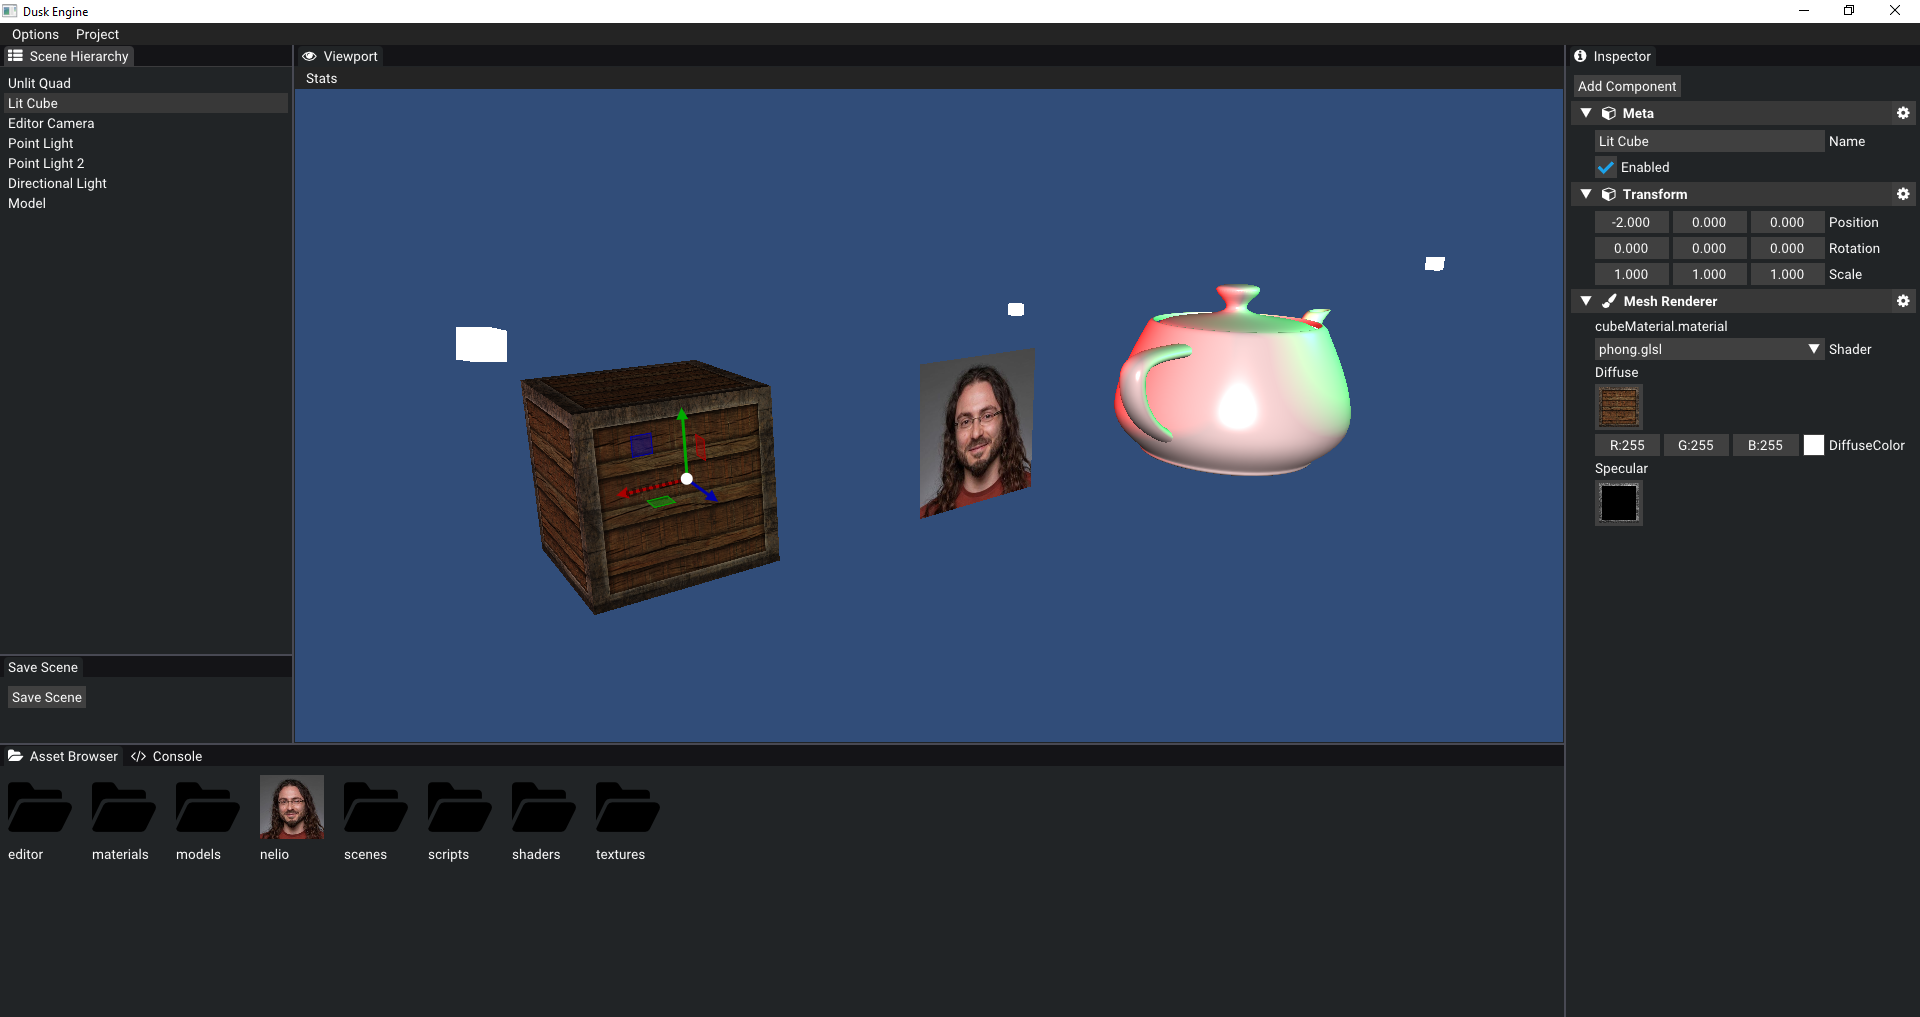
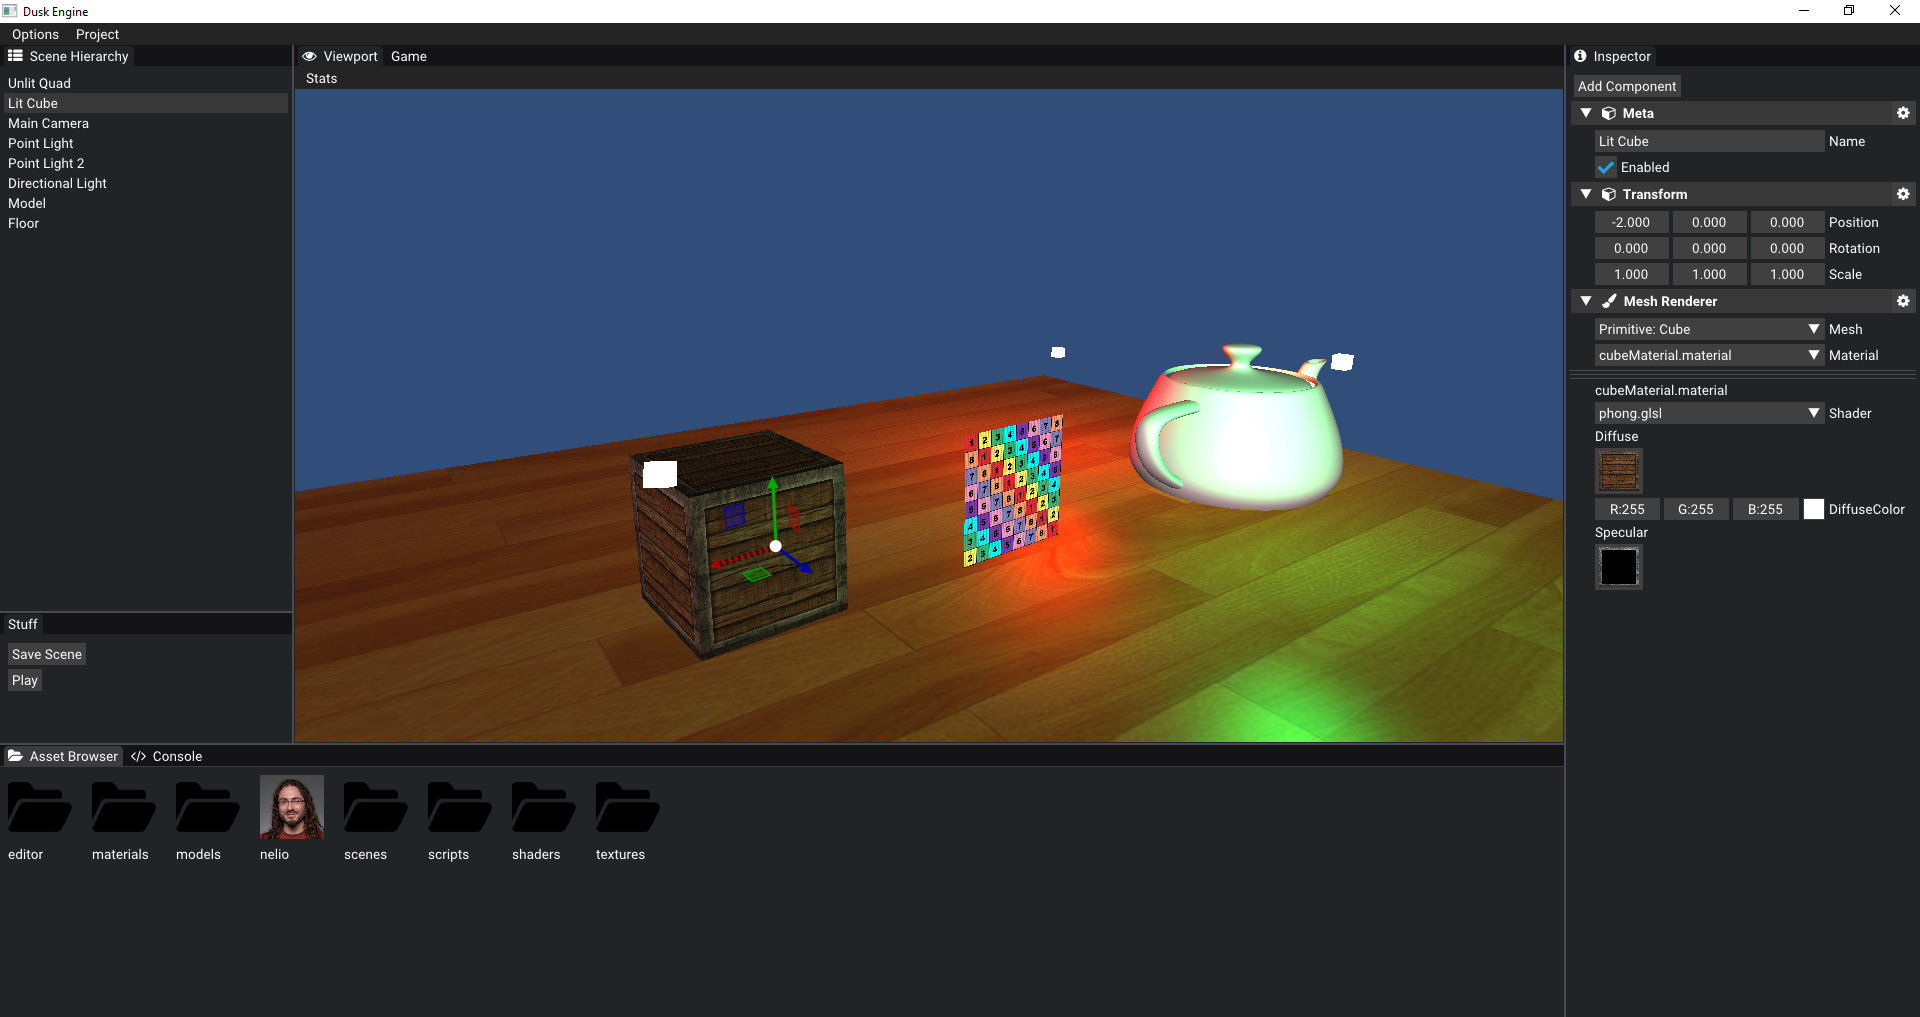
Create new material, material select

diff --git a/DuskEditor/src/Panels/InspectorPanel.cpp b/DuskEditor/src/Panels/InspectorPanel.cpp
@@ -44,14 +44,23 @@ namespace DuskEngine
 				{
 					if (ImGui::MenuItem("Camera"))
 					{
-						auto& ent = (*m_SelectedEntities)[0].AddComponent<Camera>();
-						ent.projectionMatrix = glm::perspective(glm::radians(45.0f), 16.0f / 9.0f, 0.01f, 100.0f);
+						auto& camera = (*m_SelectedEntities)[0].AddComponent<Camera>();
+						camera.projectionMatrix = glm::perspective(glm::radians(45.0f), 16.0f / 9.0f, 0.01f, 100.0f);
 						ImGui::CloseCurrentPopup();
 					}
 
 					if (ImGui::MenuItem("Light"))
 					{
 						(*m_SelectedEntities)[0].AddComponent<Light>();
+						ImGui::CloseCurrentPopup();
+					}
+
+					if(ImGui::MenuItem("Mesh Renderer"))
+					{
+						auto& mesh = (*m_SelectedEntities)[0].AddComponent<MeshRenderer>();
+						mesh.mesh = PrimitiveMesh::Quad();
+						// This will later be changed to a default material
+						mesh.material = ResourceManager::LoadMaterial(ResourceManager::GetUUID("res/materials/modelMaterial.material"));
 						ImGui::CloseCurrentPopup();
 					}
 
@@ -161,7 +170,10 @@ namespace DuskEngine
 		}
 		else
 		{
-
+			bool enabled = metas[0]->enabled;
+			if(ImGui::Checkbox("Enabled", &enabled))
+				for (auto& m : metas)
+					m->enabled = enabled;
 		}
 	}
 
@@ -247,7 +259,7 @@ namespace DuskEngine
 		else
 		{
 			// TODO - Selecting multiple lights will change both colors and types instantly
-			glm::vec3 color(1.0f);
+			/*glm::vec3 color(1.0f);
 			ImGui::ColorEdit3("Light Color", &color[0]);
 
 			LightType type = LightType::Directional;
@@ -279,7 +291,7 @@ namespace DuskEngine
 			{
 				l->type = type;
 				l->color = color;
-			}
+			}*/
 		}
 	}
 
@@ -353,6 +365,43 @@ namespace DuskEngine
 				ImGui::EndCombo();
 			}
 
+			// This could and should probably be done once at startup, and refreshed once a new shader is added/deleted
+			std::vector<std::string> materialList; // Later add default materials
+			int materialIndex = 0;
+			uuids::uuid materialID = meshes[0]->material->GetUUID();
+
+			for (unsigned int i = 0; i < ResourceManager::MaterialList.size(); i++)
+			{
+				materialList.push_back(ResourceManager::MaterialList[i]->GetName());
+				if (ResourceManager::MaterialList[i]->GetUUID() == materialID)
+					materialIndex = i;
+			}
+
+			const char* material_label = materialList[materialIndex].c_str();
+			if (ImGui::BeginCombo("Material", material_label))
+			{
+				for (int n = 0; n < materialList.size(); n++)
+				{
+					const bool is_selected = (materialIndex == n);
+					if (ImGui::Selectable(materialList[n].c_str(), is_selected))
+					{
+						if (n != materialIndex)
+						{
+							materialIndex = n;
+							std::string s = materialList[n].c_str();
+							auto material = ResourceManager::LoadMaterial(ResourceManager::GetUUID(ResourceManager::MaterialList[materialIndex]->GetPath()));
+							meshes[0]->material = material;
+						}
+					}
+
+					if (is_selected)
+						ImGui::SetItemDefaultFocus();
+				}
+				ImGui::EndCombo();
+			}
+
+			ImGui::Separator();
+			ImGui::Separator();
 			ImGui::Separator();
 
 			ImGui::Text(meshes[0]->material->GetName().c_str());

diff --git a/DuskEngine/src/Core/Resources/ResourceManager.cpp b/DuskEngine/src/Core/Resources/ResourceManager.cpp
@@ -22,6 +22,7 @@ namespace DuskEngine
 
 	std::vector<Resource*> ResourceManager::ShaderList;
 	std::vector<Resource*> ResourceManager::ModelList;
+	std::vector<Resource*> ResourceManager::MaterialList;
 
 	void ResourceManager::Init()
 	{
@@ -34,6 +35,9 @@ namespace DuskEngine
 			delete resource;
 
 		for (Resource* resource : ModelList)
+			delete resource;
+
+		for (Resource* resource : MaterialList)
 			delete resource;
 	}
 
@@ -112,6 +116,27 @@ namespace DuskEngine
 		m_CurrentDirectory = m_RootDirectory;
 	}
 
+	const uuids::uuid& ResourceManager::CreateUUID(const std::filesystem::path& path)
+	{
+		std::string message = "Creating meta file for " + path.string();
+		LOG(message)
+
+		uuids::uuid const id = uuids::uuid_system_generator{}();
+
+		YAML::Emitter out;
+		out << YAML::BeginMap;
+		out << YAML::Key << "uuid" << YAML::Value << id;
+
+		std::string metaName = path.string() + ".meta";
+		std::ofstream fout(metaName.c_str());
+		fout << out.c_str();
+
+		m_PathsMap[id] = path;
+		m_UUIDsMap[path] = id;
+
+		return id;
+	}
+
 	void ResourceManager::AddToResourceList(const std::filesystem::path& path, const uuids::uuid& uuid)
 	{
 		Resource* resource = new Resource(path, uuid);
@@ -129,6 +154,11 @@ namespace DuskEngine
 		{
 			wasAssigned = true;
 			ModelList.push_back(resource);
+		}
+		else if (extension == ".material")
+		{
+			wasAssigned = true;
+			MaterialList.push_back(resource);
 		}
 			
 		if (!wasAssigned)

diff --git a/DuskEngine/src/Core/Resources/Resources/Material.cpp b/DuskEngine/src/Core/Resources/Resources/Material.cpp
@@ -138,8 +138,6 @@ namespace DuskEngine
 		out << YAML::Key << "Shader" << YAML::Value << m_Shader;
 		out << YAML::Key << "Uniforms" << YAML::Value << m_Uniforms;
 
-		out << YAML::EndMap;
-
 		std::ofstream fout(path);
 		fout << out.c_str();
 	}
@@ -159,4 +157,21 @@ namespace DuskEngine
 
 		UniformsDefaultValue();
 	}
+
+	void Material::CreateDefaultMaterial(const std::filesystem::path& path)
+	{
+		YAML::Emitter out;
+		out << YAML::BeginMap;
+		out << YAML::Key << "Material" << YAML::Value << "newMaterial";
+		out << YAML::Key << "Shader" << YAML::Value << ResourceManager::GetUUID("res/shaders/simpleColor.glsl");
+		out << YAML::Key << "Uniforms";
+		out << YAML::BeginMap;
+		out << YAML::Key << "Color" << YAML::Value << glm::vec3(1.0);
+		out << YAML::EndMap;
+		out << YAML::EndMap;
+
+		std::ofstream material(path);
+		material << out.c_str();
+	}
+
 }

diff --git a/DuskEditor/src/Panels/ContentBrowserPanel.cpp b/DuskEditor/src/Panels/ContentBrowserPanel.cpp
@@ -3,6 +3,7 @@
 #include "Core/Macros/LOG.h"
 #include "Core/Resources/Resources/Texture.h"
 #include "Core/Resources/ResourceManager.h"
+#include "Core/Resources/Resources/Material.h"
 
 #include "IconsForkAwesome.h"
 
@@ -111,6 +112,21 @@ namespace DuskEngine
 			ImGui::PopID();
 
 			if (shouldBreak) break; // Only break here to avoid breaking ImGui
+		}
+
+		if (ImGui::BeginPopupContextWindow(0, 1, false))
+		{
+			if (ImGui::MenuItem("Create Material"))
+			{
+				std::string path = m_CurrentDirectory.string() + "/newMaterial.material";
+				Material::CreateDefaultMaterial(path);
+				CreateDirectoryItems();
+				auto id = ResourceManager::CreateUUID(path);
+				ResourceManager::MaterialList.push_back(new Resource(path, id));
+				ImGui::CloseCurrentPopup();
+			}
+
+			ImGui::EndPopup();
 		}
 
 		ImGui::End();

diff --git a/DuskEngine/src/Core/Resources/ResourceManager.h b/DuskEngine/src/Core/Resources/ResourceManager.h
@@ -34,6 +34,7 @@ namespace DuskEngine
 
 		static void LoadUUIDs();
 		static void CreateUUIDs();
+		static const uuids::uuid& CreateUUID(const std::filesystem::path& path);
 		static void DeleteUUIDs();
 		
 		static uuids::uuid GetUUID(const std::filesystem::path& path);
@@ -47,6 +48,7 @@ namespace DuskEngine
 		// Resource Lists
 		static std::vector<Resource*> ShaderList;
 		static std::vector<Resource*> ModelList;
+		static std::vector<Resource*> MaterialList;
 	private:
 		static std::filesystem::path m_RootDirectory;
 		static std::filesystem::path m_CurrentDirectory;

diff --git a/DuskEngine/src/Core/Resources/Resources/Material.h b/DuskEngine/src/Core/Resources/Resources/Material.h
@@ -51,6 +51,7 @@ namespace DuskEngine
 		
 		// Serialization
 		void SerializeText(const std::string& path);
+		static void CreateDefaultMaterial(const std::filesystem::path& path);
 	private:
 		void CreateUniforms();
 		Ref<Shader> m_Shader;
